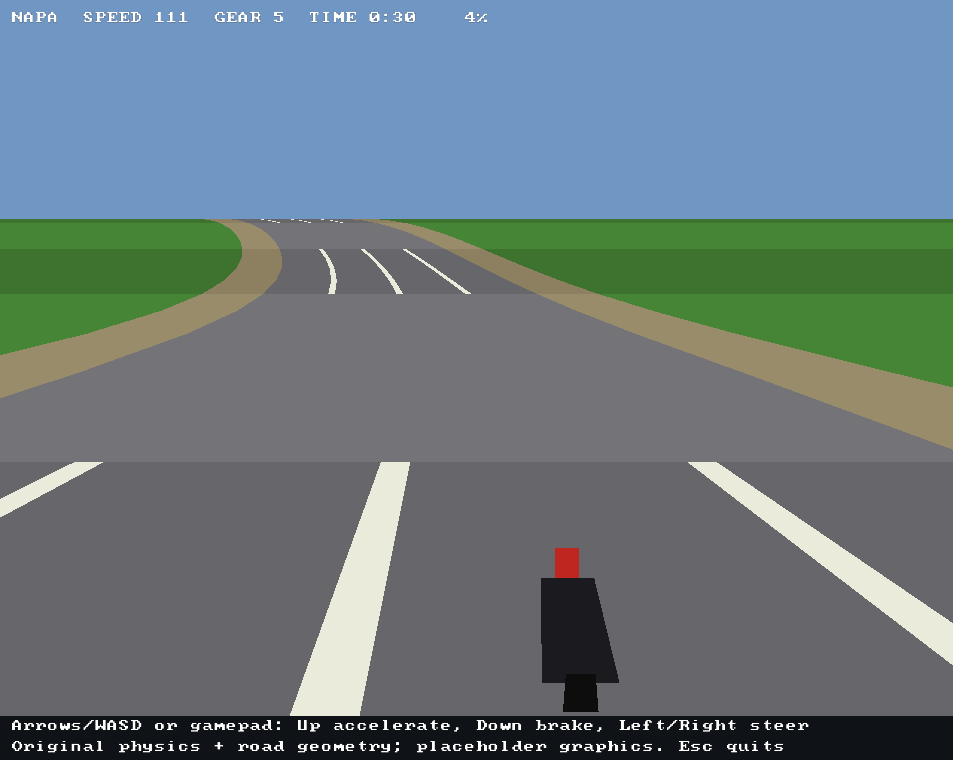
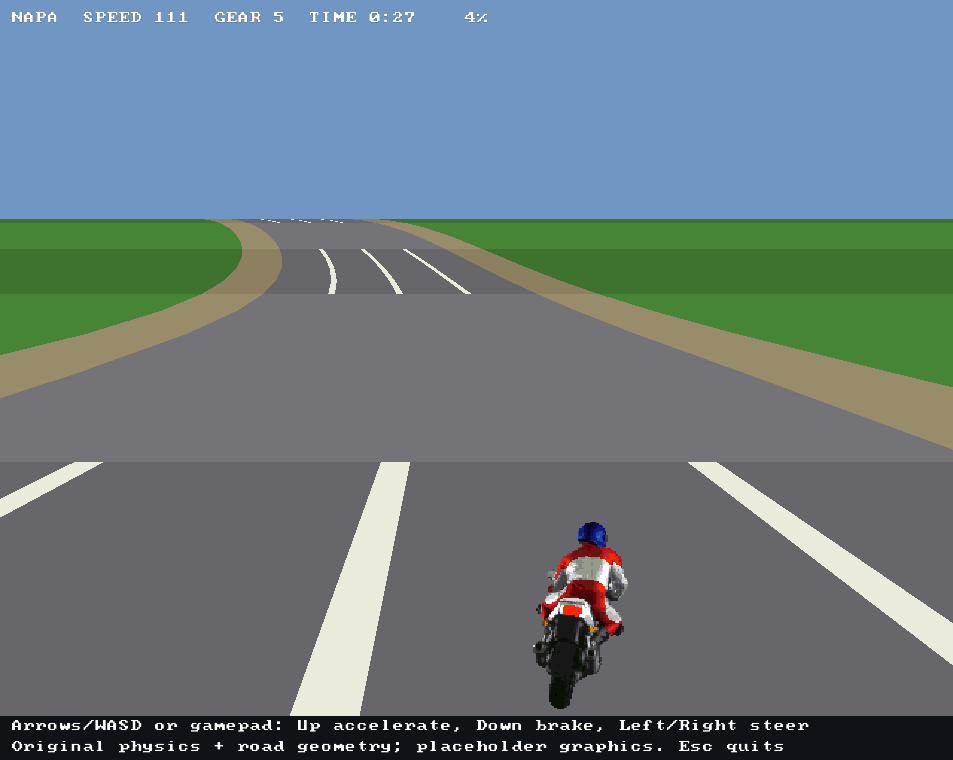
game: draw the original rider sprite with lean frames from steering

Changed region(s): [[0.5477, 0.6658, 0.6695, 0.9382]]

diff --git a/src/game_main.cpp b/src/game_main.cpp
@@ -3,6 +3,8 @@
 #include <SDL3/SDL.h>
 #include <SDL3/SDL_main.h>
 #include "assets.hpp"
+#include "bob.hpp"
+#include "framebuffer.hpp"
 #include "input.hpp"
 #include "race.hpp"
 #include "road_draw.hpp"
@@ -23,6 +25,9 @@ struct Game {
     int bike = 0;
     std::unique_ptr<rr::Race> race;
     int countdown = countdown_ticks;
+    std::vector<rr::Image8> bobs;
+    rr::RiderRemaps remaps;
+    rr::Palette palette;
 
     void restart() {
         race = std::make_unique<rr::Race>(rr::make_route(course, false), rr::make_route(course, true),
@@ -50,8 +55,41 @@ void quad(SDL_Renderer* r, float x0, float x1, float y0, float x2, float x3, flo
     SDL_RenderGeometry(r, nullptr, v, 4, index, 6);
 }
 
-// Placeholder rider marker: projected lateral position at the bike's depth, pinned near the bottom.
-void draw_bike(SDL_Renderer* r, const Game& g) {
+// Riding frame from the steering state. Frames 4..11 of HIBOB.DAT are the lean sequence
+// (4 strongest right, 11 strongest left) and 3 is straight; the original picks frames through
+// its RRAN/RRFD animation system (0x00445a60, 0x0043ae90), which is not ported yet.
+int riding_frame(const rr::Race& race) {
+    const int32_t steer = race.bike().i32(0x288), limit = 0x2e00;
+    const int level = std::abs(steer) * 8 / limit;   // 0..8
+    if (level < 1) return 3;
+    if (steer > 0) return level < 3 ? 6 : (level < 6 ? 5 : 4);
+    return level < 3 ? 8 : (level < 5 ? 9 : (level < 7 ? 10 : 11));
+}
+
+struct SpriteCache {
+    std::vector<SDL_Texture*> textures;
+    ~SpriteCache() { for (auto* t : textures) SDL_DestroyTexture(t); }
+    SDL_Texture* get(SDL_Renderer* r, const Game& g, int frame, int rider) {
+        if (textures.empty()) textures.assign(g.bobs.size(), nullptr);
+        SDL_Texture*& t = textures.at(size_t(frame));
+        if (t) return t;
+        const rr::Image8 img = rr::remap(g.bobs.at(size_t(frame)), g.remaps, rider);
+        if (!img.width || !img.height) return nullptr;
+        std::vector<uint8_t> rgba(size_t(img.width) * img.height * 4);
+        for (size_t i = 0; i < img.pixels.size(); ++i) {
+            const uint8_t* c = &g.palette.rgbx[4 * img.pixels[i]];
+            rgba[4*i] = c[0]; rgba[4*i+1] = c[1]; rgba[4*i+2] = c[2]; rgba[4*i+3] = img.pixels[i] ? 255 : 0;  // index 0 transparent
+        }
+        SDL_Surface* s = SDL_CreateSurfaceFrom(img.width, img.height, SDL_PIXELFORMAT_RGBA32, rgba.data(), img.width * 4);
+        t = s ? SDL_CreateTextureFromSurface(r, s) : nullptr;
+        SDL_DestroySurface(s);
+        if (t) SDL_SetTextureScaleMode(t, SDL_SCALEMODE_NEAREST);
+        return t;
+    }
+};
+
+// Player bike: original sprite, horizontal position projected at the bike's depth, bottom of the view.
+void draw_bike(SDL_Renderer* r, const Game& g, SpriteCache& cache) {
     const rr::Race& race = *g.race;
     const int32_t depth = int32_t(race.position() - race.camera_position());
     const size_t index = size_t(depth & ~1) / 2;
@@ -59,12 +97,15 @@ void draw_bike(SDL_Renderer* r, const Game& g) {
     const auto& road = race.route()[race.camera_position() >> 8];
     const int64_t rel = int64_t(race.lateral() - road.offset - race.camera().x);
     float x = float((rel * scale) >> 16) + 160.f;
-    if (x < 20) x = 20; if (x > 300) x = 300;
-    const float s = 2.f, bx = x * s, by = 478.f;
-    const float lean = race.crashed() ? 40.f : float(race.bike().i32(0x288)) / 400.f;
-    quad(r, bx - 18 + lean, bx + 18 + lean, by - 90, bx - 26, bx + 26, by - 20, {.10f, .10f, .12f, 1});   // rider
-    quad(r, bx - 8 + lean, bx + 8 + lean, by - 110, bx - 8 + lean, bx + 8 + lean, by - 90, {.75f, .15f, .12f, 1});  // helmet
-    quad(r, bx - 10, bx + 10, by - 26, bx - 12, bx + 12, by, {.05f, .05f, .05f, 1});                     // wheel
+    if (x < 20) x = 20;
+    if (x > 300) x = 300;
+    const int frame = race.crashed() ? 21 : riding_frame(race);
+    SDL_Texture* t = cache.get(r, g, frame, 0);
+    if (!t) return;
+    float w, h;
+    SDL_GetTextureSize(t, &w, &h);
+    const SDL_FRect dst{x * 2 - w / 2, 476 - h, w, h};
+    SDL_RenderTexture(r, t, nullptr, &dst);
 }
 
 void draw_hud(SDL_Renderer* r, const Game& g) {
@@ -127,6 +168,9 @@ int main(int argc, char** argv) {
         g.course = rr::read_course(assets.read("DATA/COURSES/" + g.course_name + ".CRS"));
         if (bike < 0 || size_t(bike) >= g.specs.size()) throw std::runtime_error("Bike index out of range");
         g.bike = bike;
+        g.bobs = rr::read_bobs(assets.read("DATA/BIKERS/HIBOB.DAT"), rr::bob_frames);
+        g.remaps = rr::read_rider_remaps(exe, 9);
+        g.palette = rr::Palette::from_raw(assets.read("DATA/PALETTE.RAW"));
         g.restart();
 
         if (!SDL_Init(SDL_INIT_VIDEO | SDL_INIT_GAMEPAD)) throw std::runtime_error(SDL_GetError());
@@ -138,6 +182,7 @@ int main(int argc, char** argv) {
         if (run_ticks >= 0) {   // headless-style verification run
             for (long t = 0; t < run_ticks && !g.race->finished(); ++t) g.tick(auto_drive ? autopilot(*g.race) : 0);
         }
+        SpriteCache sprites;
         SDL_Gamepad* pad = nullptr;
         bool running = true, touching = false;
         rr::PlayerInput touch;
@@ -188,7 +233,7 @@ int main(int argc, char** argv) {
             SDL_SetRenderDrawColor(renderer, 15, 18, 22, 255);
             SDL_RenderClear(renderer);
             rr::draw_road(renderer, rr::project_road(g.race->route(), g.race->camera_position(), g.race->camera(), g.depth));
-            draw_bike(renderer, g);
+            draw_bike(renderer, g, sprites);
             draw_hud(renderer, g);
             if (!screenshot.empty()) {
                 SDL_Surface* capture = SDL_RenderReadPixels(renderer, nullptr);

diff --git a/tools/prepare_android_assets.py b/tools/prepare_android_assets.py
@@ -13,6 +13,7 @@ files = ['DATA/BIKESPEC.RSC'] + ['IMAGES/'+name+'.RRI' for name in
     ['SPLASH', 'MAIN', 'OLLEYS', 'PANZER', 'STREET', 'CREDITS']]
 files += ['DATA/PALETTE.RAW', 'IMAGES/BIGMETER.BOB', 'IMAGES/HORIZONS/NAPA.BOB', 'IMAGES/HORIZONS/CITY.BOB']
 # Course geometry, plus the executable for its static projection table (0x0046f098).
+files += ['DATA/BIKERS/HIBOB.DAT']
 files += ['ROADRASH.EXE'] + ['DATA/COURSES/'+name+'.CRS' for name in ['NAPA', 'CITY', 'HIWAY', 'CANYN', 'MEDLY']]
 for relative in files:
     out = target/relative
